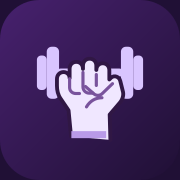
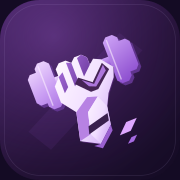
Create a custom faceted grip emblem for app branding

diff --git a/components/layout/app-shell.tsx b/components/layout/app-shell.tsx
@@ -9,5 +9,5 @@ const icons = { assistant: Sparkles, home: Home, food: Utensils, meals: Calendar
 export function AppShell({ children }: { children: React.ReactNode }) {
   const pathname = usePathname();
   function navLink(item: typeof navigation[number], mobile = false) { const Icon = icons[item.icon]; return <Link key={item.href} href={item.href} className={mobile ? 'shell-mobile-link' : 'shell-nav-link'} aria-current={isActiveRoute(pathname, item.href) ? 'page' : undefined}><Icon size={19} aria-hidden="true"/><span>{mobile && item.href === '/workouts' ? 'Workouts' : item.label}</span>{!mobile && <ChevronRight size={14} className="nav-arrow"/>}</Link>; }
-  return <div className="workspace"><a className="skip-link" href="#main-content">Skip to content</a><aside className="shell-sidebar"><Link href="/" className="shell-brand"><span><Image className="brand-mark" src="/icon.svg?v=violet-3" width={35} height={35} alt="" unoptimized/></span>FitTrack <b>AI</b></Link><p className="shell-overline">YOUR WORKSPACE</p><nav aria-label="Main navigation">{navigation.map(item => navLink(item))}</nav><div className="shell-sidebar-note"><span className="shell-overline">BUILT FOR CONSISTENCY</span><h2>Your pace.<br/>Your progress.</h2><p>A space for the small things that add up.</p><Link href="/onboarding">Your starting point <ArrowUpRight size={16}/></Link></div><Link className="shell-profile" href="/settings"><span>ME</span><div><strong>Your fitness journey</strong><small>Personal workspace</small></div><Settings2 size={16}/></Link></aside><div className="shell-body"><header className="shell-header"><Link className="shell-mobile-brand" href="/"><Image className="brand-mark" src="/icon.svg?v=violet-3" width={32} height={32} alt="" unoptimized/> FitTrack <b>AI</b></Link><span className="shell-breadcrumb">Workspace <ChevronRight size={13}/><strong>{pageLabel(pathname)}</strong></span><div className="shell-header-actions"><Link href="/assistant" className="shell-icon" aria-label="AI assistant"><Sparkles size={19}/></Link><span className="shell-local-status"><i/> Browser storage</span><ThemeToggle/><Link href="/auth" className="shell-icon" aria-label="Sign in"><LogIn size={19}/></Link></div></header><main id="main-content" className="shell-main" tabIndex={-1}>{children}</main><footer className="shell-footer"><span>FitTrack AI</span><span>Small steps. Lasting habits.</span></footer></div><nav className="shell-mobile-nav" aria-label="Mobile navigation">{mobileNavigation.map(item => navLink(item, true))}</nav></div>;
+  return <div className="workspace"><a className="skip-link" href="#main-content">Skip to content</a><aside className="shell-sidebar"><Link href="/" className="shell-brand"><span><Image className="brand-mark" src="/icon.svg?v=ascend-4" width={35} height={35} alt="" unoptimized/></span>FitTrack <b>AI</b></Link><p className="shell-overline">YOUR WORKSPACE</p><nav aria-label="Main navigation">{navigation.map(item => navLink(item))}</nav><div className="shell-sidebar-note"><span className="shell-overline">BUILT FOR CONSISTENCY</span><h2>Your pace.<br/>Your progress.</h2><p>A space for the small things that add up.</p><Link href="/onboarding">Your starting point <ArrowUpRight size={16}/></Link></div><Link className="shell-profile" href="/settings"><span>ME</span><div><strong>Your fitness journey</strong><small>Personal workspace</small></div><Settings2 size={16}/></Link></aside><div className="shell-body"><header className="shell-header"><Link className="shell-mobile-brand" href="/"><Image className="brand-mark" src="/icon.svg?v=ascend-4" width={32} height={32} alt="" unoptimized/> FitTrack <b>AI</b></Link><span className="shell-breadcrumb">Workspace <ChevronRight size={13}/><strong>{pageLabel(pathname)}</strong></span><div className="shell-header-actions"><Link href="/assistant" className="shell-icon" aria-label="AI assistant"><Sparkles size={19}/></Link><span className="shell-local-status"><i/> Browser storage</span><ThemeToggle/><Link href="/auth" className="shell-icon" aria-label="Sign in"><LogIn size={19}/></Link></div></header><main id="main-content" className="shell-main" tabIndex={-1}>{children}</main><footer className="shell-footer"><span>FitTrack AI</span><span>Small steps. Lasting habits.</span></footer></div><nav className="shell-mobile-nav" aria-label="Mobile navigation">{mobileNavigation.map(item => navLink(item, true))}</nav></div>;
 }

diff --git a/app/layout.tsx b/app/layout.tsx
@@ -1,7 +1,7 @@
 import type { Metadata, Viewport } from 'next';
 import './globals.css';
 import { OfflineSupport } from '@/components/features/offline';
-export const metadata: Metadata = { title: { default:'FitTrack AI · Your fitness workspace', template:'%s · FitTrack AI' }, description:'Food, movement, and progress. Your personal fitness workspace.', appleWebApp:{capable:true,statusBarStyle:'default',title:'FitTrack AI'}, icons:{icon:[{url:'/favicon-16x16.png?v=violet-3',sizes:'16x16',type:'image/png'},{url:'/favicon-32x32.png?v=violet-3',sizes:'32x32',type:'image/png'},{url:'/icon.svg?v=violet-3',sizes:'any',type:'image/svg+xml'}],apple:[{url:'/apple-touch-icon.png?v=violet-3',sizes:'180x180',type:'image/png'}]} };
+export const metadata: Metadata = { title: { default:'FitTrack AI · Your fitness workspace', template:'%s · FitTrack AI' }, description:'Food, movement, and progress. Your personal fitness workspace.', appleWebApp:{capable:true,statusBarStyle:'default',title:'FitTrack AI'}, icons:{icon:[{url:'/favicon-16x16.png?v=ascend-4',sizes:'16x16',type:'image/png'},{url:'/favicon-32x32.png?v=ascend-4',sizes:'32x32',type:'image/png'},{url:'/icon.svg?v=ascend-4',sizes:'any',type:'image/svg+xml'}],apple:[{url:'/apple-touch-icon.png?v=ascend-4',sizes:'180x180',type:'image/png'}]} };
 export const viewport: Viewport = { width:'device-width',initialScale:1,viewportFit:'cover',themeColor:[{media:'(prefers-color-scheme: dark)',color:'#100c1a'},{media:'(prefers-color-scheme: light)',color:'#f7f4fc'}] };
 const themeScript = `(function(){try{var t=localStorage.getItem('fittrack-theme');if(t!=='light'&&t!=='dark')t=matchMedia('(prefers-color-scheme: light)').matches?'light':'dark';document.documentElement.dataset.theme=t;document.documentElement.style.colorScheme=t}catch(e){document.documentElement.dataset.theme='dark'}})()`;
 export default function RootLayout({ children }: Readonly<{ children: React.ReactNode }>) { return <html lang="en" suppressHydrationWarning><head><script dangerouslySetInnerHTML={{__html:themeScript}}/></head><body>{children}<OfflineSupport/></body></html>; }

diff --git a/public/sw.js b/public/sw.js
@@ -1,8 +1,8 @@
 /* Public application shell only: account/auth/API responses are never cached. */
-const SHELL = 'fittrack-shell-20261105-violet-v7';
-const ASSETS = 'fittrack-assets-20261105-violet-v7';
+const SHELL = 'fittrack-shell-20261105-ascend-v8';
+const ASSETS = 'fittrack-assets-20261105-ascend-v8';
 const PAGES = ['/', '/food', '/meals', '/workouts', '/workouts/active', '/progress', '/settings', '/onboarding'];
-const PUBLIC_ASSETS = ['/offline.html', '/favicon.ico', '/favicon-16x16.png?v=violet-3', '/favicon-32x32.png?v=violet-3', '/icon.svg?v=violet-3', '/manifest.webmanifest', '/icon-192.png?v=violet-3', '/icon-512.png?v=violet-3', '/icon-maskable.png?v=violet-3', '/apple-touch-icon.png?v=violet-3'];
+const PUBLIC_ASSETS = ['/offline.html', '/favicon.ico', '/favicon-16x16.png?v=ascend-4', '/favicon-32x32.png?v=ascend-4', '/icon.svg?v=ascend-4', '/manifest.webmanifest', '/icon-192.png?v=ascend-4', '/icon-512.png?v=ascend-4', '/icon-maskable.png?v=ascend-4', '/apple-touch-icon.png?v=ascend-4'];
 self.addEventListener('install', event => {
   event.waitUntil(caches.open(SHELL).then(async cache => {
     await cache.addAll([...PAGES, ...PUBLIC_ASSETS]);

diff --git a/app/manifest.ts b/app/manifest.ts
@@ -1,9 +1,9 @@
 import type { MetadataRoute } from 'next';
 export default function manifest(): MetadataRoute.Manifest {
   return { id: '/', name: 'FitTrack AI', short_name: 'FitTrack', description: 'Food, workouts, and progress in your personal workspace', start_url: '/', scope: '/', display: 'standalone', background_color: '#100c1a', theme_color: '#100c1a', icons: [
-    { src: '/icon.svg?v=violet-3', sizes: 'any', type: 'image/svg+xml', purpose: 'any' },
-    { src: '/icon-192.png?v=violet-3', sizes: '192x192', type: 'image/png', purpose: 'any' },
-    { src: '/icon-512.png?v=violet-3', sizes: '512x512', type: 'image/png', purpose: 'any' },
-    { src: '/icon-maskable.png?v=violet-3', sizes: '512x512', type: 'image/png', purpose: 'maskable' },
+    { src: '/icon.svg?v=ascend-4', sizes: 'any', type: 'image/svg+xml', purpose: 'any' },
+    { src: '/icon-192.png?v=ascend-4', sizes: '192x192', type: 'image/png', purpose: 'any' },
+    { src: '/icon-512.png?v=ascend-4', sizes: '512x512', type: 'image/png', purpose: 'any' },
+    { src: '/icon-maskable.png?v=ascend-4', sizes: '512x512', type: 'image/png', purpose: 'maskable' },
   ] };
 }
